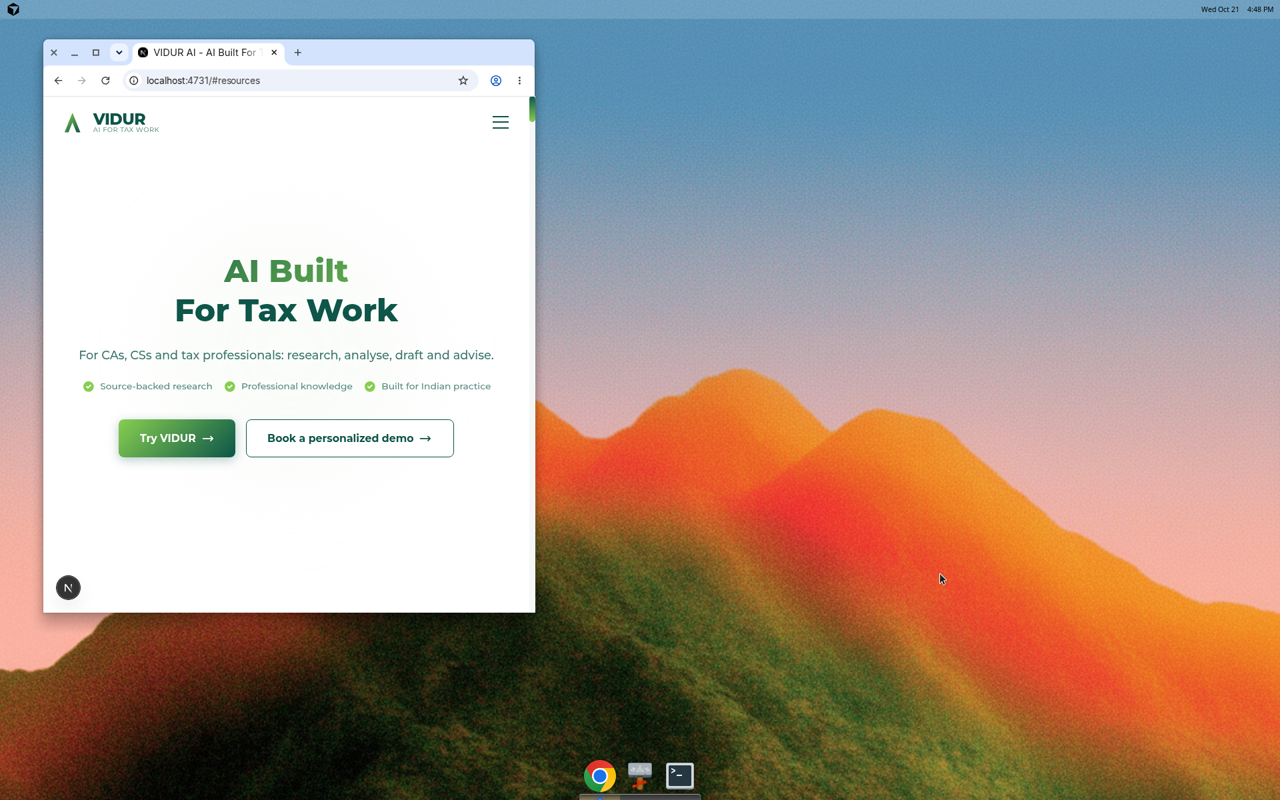
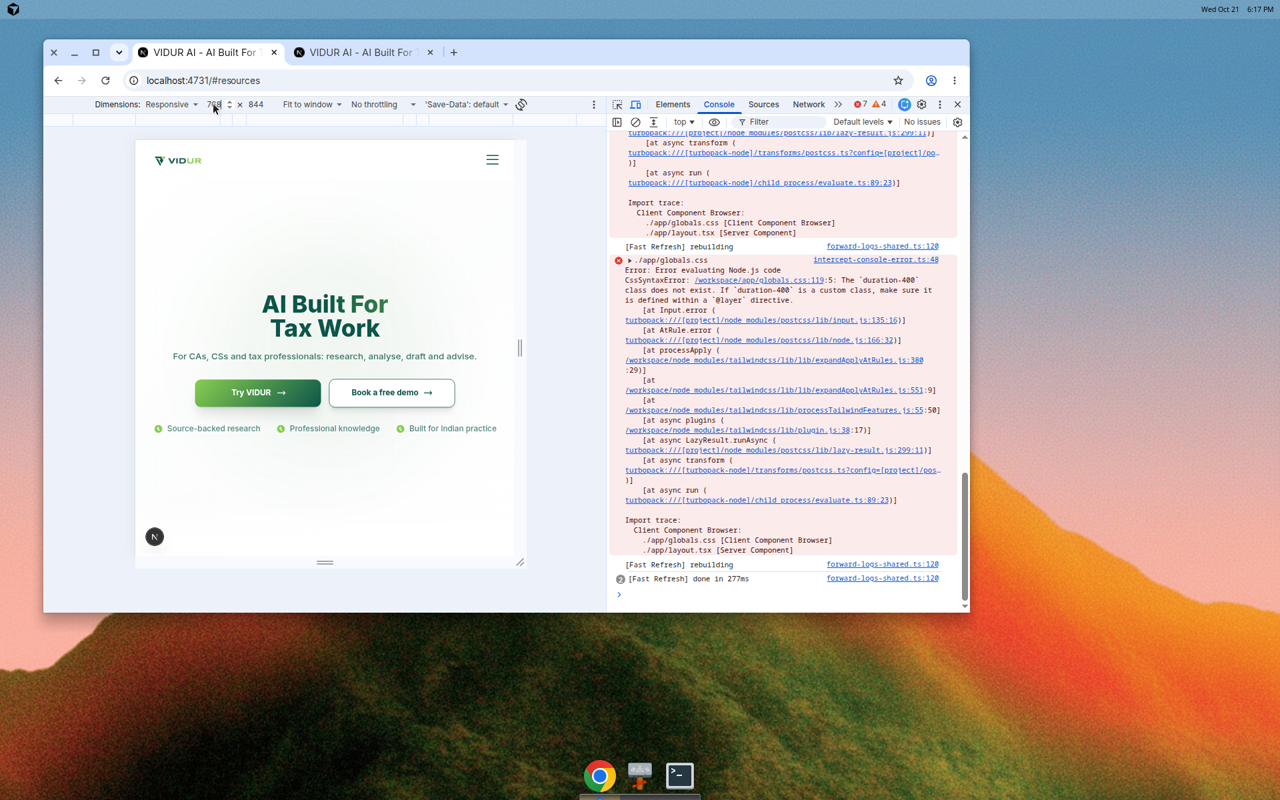
fix: correct Tailwind CSS class duration-400 → duration-300

diff --git a/app/globals.css b/app/globals.css
@@ -116,7 +116,7 @@ body {
   }
   
   .btn-gradient-secondary {
-    @apply relative px-8 py-4 text-base font-bold rounded-xl overflow-hidden border-2 transition-all duration-400;
+    @apply relative px-8 py-4 text-base font-bold rounded-xl overflow-hidden border-2 transition-all duration-300;
     border-color: #0D5649;
     color: #0D5649;
     background: white;
